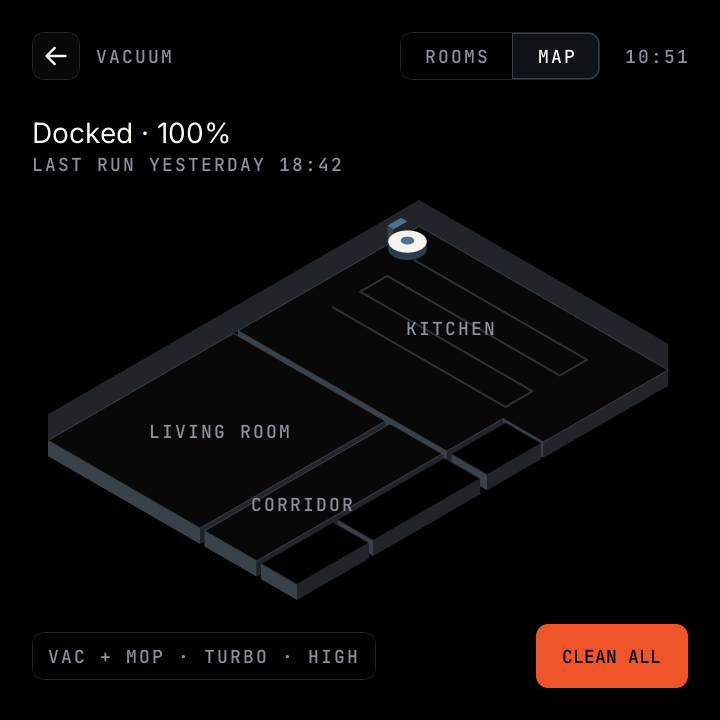
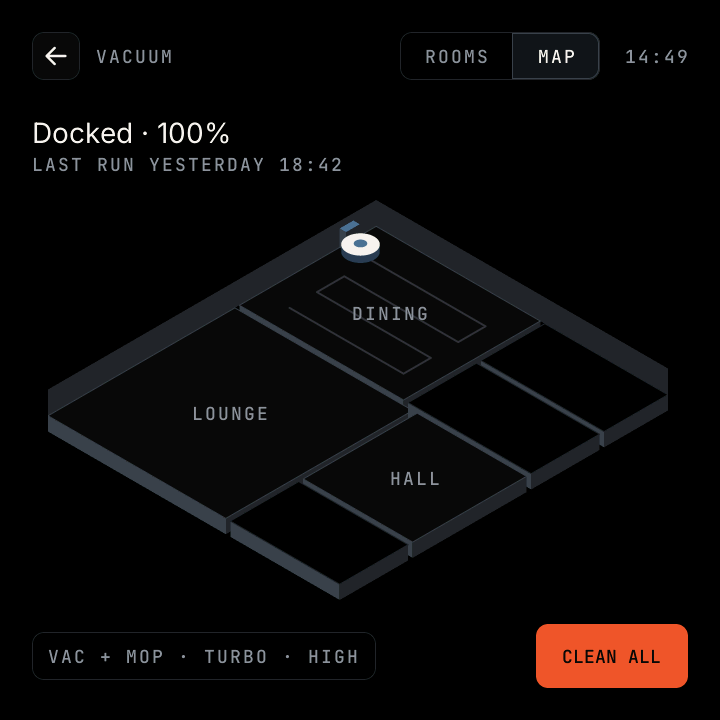
Vacuum: rooms and Clean step aside while it runs (progress bar); made-up sample floor plan (WIP)
Level bar reads bound values as numbers (doubles drew no fill).

diff --git a/renderer/components/iso_floorplan.cpp b/renderer/components/iso_floorplan.cpp
@@ -4,7 +4,7 @@
 //   plan     rooms as DATA (a spec parameter, never code): "Name|segment|x,z x,z ...|lx,lz;..." in metres (plan x
 //            right, z down, origin = the inside rear-left corner, polygons clockwise); segment = the robot's room id
 //            (empty = it can't clean it: canvas top, no label); lx,lz = the label point (empty = no label)
-//   dock     "x0,z0,x1,z1,height" metres: a steel box (house-data.js "robot vacuum dock")
+//   dock     "x0,z0,x1,z1,height" metres: a steel box (the sample: against the back wall)
 //   robot    the robot's position: "x,y[,mode]" in the source's units, through `transform` ("a,b,c,d,e,f": metres
 //            x = a x + b y + c, z = d x + e y + f; empty = metres already). Shown while a run is on (state cleaning,
 //            returning, paused); docked = on the dock whatever it says; otherwise hidden (the lab's rule)
@@ -342,8 +342,8 @@ std::string build_key(fw::Props p) {
   return std::string(p["plan"] | "") + "#" + (p["dock"] | "") + "#" + (p["transform"] | "") + "#" + (p["show"] | "plan");
 }
 
-#define FP_PLAN "Kitchen|3|0,0 5.49,0 5.49,2.75 4.6,2.75 4.6,3.99 0,3.99|2.3,1.6;Pantry||4.7,2.8 5.49,2.8 5.49,3.99 4.7,3.99|;Living room|2|0,4.09 3.35,4.09 3.35,8.18 0,8.18|1.7,6.1;Corridor|1|3.45,4.09 4.6,4.09 4.6,8.18 3.45,8.18|4.02,6.6;Stairs||4.7,4.15 5.49,4.15 5.49,6.5 4.7,6.5|;WC||4.7,6.6 5.49,6.6 5.49,8.18 4.7,8.18|"
-#define FP_TRAIL "0.6,0.7 4.4,0.7 4.4,1.3 0.6,1.3 0.6,1.9 4.4,1.9 4.4,2.5 0.6,2.5"
+#define FP_PLAN "Dining|2|0,0 3.6,0 3.6,3 0,3|1.8,1.5;Utility||3.7,0 6.4,0 6.4,1.4 3.7,1.4|;Study||3.7,1.5 6.4,1.5 6.4,3 3.7,3|;Lounge|1|0,3.1 3.9,3.1 3.9,7.2 0,7.2|1.95,5.15;Hall|3|4,3.1 6.4,3.1 6.4,5.6 4,5.6|5.2,4.35;Cloakroom||4,5.7 6.4,5.7 6.4,7.2 4,7.2|"
+#define FP_TRAIL "0.6,0.7 3.1,0.7 3.1,1.3 0.6,1.3 0.6,1.9 3.1,1.9 3.1,2.5 0.6,2.5"
 
 void rules_page(lv_obj_t *root) {
   const fw::Theme &t = *fw::T;
@@ -362,11 +362,11 @@ FW_COMPONENT(iso_floorplan, "Iso floor plan", "components", R"({
   "frame": [480, 0],
   "audit": {"snaps": {"picked": "one pre-rendered picture (the lab's rule: no live drawing per frame): a pick redraws that room once", "here": "the same picture: the current room's edge is redrawn once", "state": "the LiDAR colour and the trail ink are part of the pictures", "trail": "the path is drawn into the picture when a new point arrives, every few seconds"}},
   "props": [
-    {"name": "plan", "type": "text", "default": "Kitchen|3|0,0 5.49,0 5.49,2.75 4.6,2.75 4.6,3.99 0,3.99|2.3,1.6;Pantry||4.7,2.8 5.49,2.8 5.49,3.99 4.7,3.99|;Living room|2|0,4.09 3.35,4.09 3.35,8.18 0,8.18|1.7,6.1;Corridor|1|3.45,4.09 4.6,4.09 4.6,8.18 3.45,8.18|4.02,6.6;Stairs||4.7,4.15 5.49,4.15 5.49,6.5 4.7,6.5|;WC||4.7,6.6 5.49,6.6 5.49,8.18 4.7,8.18|"},
-    {"name": "dock", "type": "text", "default": "0,0.4,0.14,0.7,0.36"},
-    {"name": "robot", "type": "text", "default": "1.2,5.6"},
+    {"name": "plan", "type": "text", "default": "Dining|2|0,0 3.6,0 3.6,3 0,3|1.8,1.5;Utility||3.7,0 6.4,0 6.4,1.4 3.7,1.4|;Study||3.7,1.5 6.4,1.5 6.4,3 3.7,3|;Lounge|1|0,3.1 3.9,3.1 3.9,7.2 0,7.2|1.95,5.15;Hall|3|4,3.1 6.4,3.1 6.4,5.6 4,5.6|5.2,4.35;Cloakroom||4,5.7 6.4,5.7 6.4,7.2 4,7.2|"},
+    {"name": "dock", "type": "text", "default": "0,0.5,0.14,0.8,0.36"},
+    {"name": "robot", "type": "text", "default": "1.4,4.8"},
     {"name": "transform", "type": "text", "default": ""},
-    {"name": "trail", "type": "text", "default": "0.6,0.7 4.4,0.7 4.4,1.3 0.6,1.3 0.6,1.9 4.4,1.9 4.4,2.5 0.6,2.5"},
+    {"name": "trail", "type": "text", "default": "0.6,0.7 3.1,0.7 3.1,1.3 0.6,1.3 0.6,1.9 3.1,1.9 3.1,2.5 0.6,2.5"},
     {"name": "picked", "type": "text", "default": ""},
     {"name": "here", "type": "text", "default": ""},
     {"name": "state", "type": "select", "options": ["docked", "cleaning", "returning", "paused", "idle", "error", "unavailable"], "default": "docked"},
@@ -374,8 +374,8 @@ FW_COMPONENT(iso_floorplan, "Iso floor plan", "components", R"({
   ],
   "variants": [
     {"label": "docked · last run", "about": "On the dock; the last run's path in text-mute. Rooms it cleans have names; the pantry, stairs and WC stay quiet.", "props": {}},
-    {"label": "two rooms picked", "about": "Picked rooms: accent-dim top and an accent edge; the name in text (tap a room to pick it).", "props": {"picked": "Kitchen:3,Corridor:1"}},
-    {"label": "cleaning", "about": "A run on: the robot on the plan with its LiDAR in the accent, the room it's in edged in the accent, the live path in blue.", "props": {"state": "cleaning", "here": "Living room", "robot": "1.2,5.6", "trail": "0.5,4.5 3.0,4.5 3.0,5.1 0.5,5.1 0.5,5.6 1.2,5.6"}},
+    {"label": "two rooms picked", "about": "Picked rooms: accent-dim top and an accent edge; the name in text (tap a room to pick it).", "props": {"picked": "Dining:2,Hall:3"}},
+    {"label": "cleaning", "about": "A run on: the robot on the plan with its LiDAR in the accent, the room it's in edged in the accent, the live path in blue.", "props": {"state": "cleaning", "here": "Lounge", "robot": "1.4,4.8", "trail": "0.5,3.6 3.4,3.6 3.4,4.2 0.5,4.2 0.5,4.8 1.4,4.8"}},
     {"label": "rules", "about": "The Floor plans rules, from tokens/floorplan.json.", "props": {"show": "rules"}}
   ]
 })") {

diff --git a/renderer/components/level_bar.cpp b/renderer/components/level_bar.cpp
@@ -18,7 +18,7 @@ lv_color_t tone(const char *t) {
 }
 void level_w(void *o, int32_t v) { lv_obj_set_width((lv_obj_t *) o, v); }
 void place(lv_obj_t *root, LB *b, fw::Props p, bool animate) {
-  const int v = p["value"] | -1, m = p["mark"] | -1, H = fw::sp::s2;
+  const int v = (int) lround(p["value"] | -1.0), m = (int) lround(p["mark"] | -1.0), H = fw::sp::s2;  // binds give doubles
   const int to = v < 0 ? 0 : std::max(H, (int) std::lround(b->w * LV_CLAMP(0, v, 100) / 100.0));
   const int from = lv_obj_get_width(b->level);
   if (to != b->to) {  // only a new level moves (the same props redraw nothing)

diff --git a/site/src/content/updates/2026-10-24-new-screen-robot-vacuum.md b/site/src/content/updates/2026-10-24-new-screen-robot-vacuum.md
@@ -4,9 +4,9 @@ date: "2026-10-24"
 time: "01:30"
 kind: "New screen"
 image: "2026-10-24-robot-vacuum.png"
-alt: "The Robot vacuum Map view: the floor plan in isometric with the robot on its dock, the last run's path, a mode button and Clean all"
+alt: "The Robot vacuum Map view: the floor plan in isometric (a sample house) with the robot on its dock, the last run's path, a mode button and Clean all"
 links: [["Robot vacuum", "screens/vacuum/"]]
 ---
 Two views in the header. Rooms shows the state big with the battery and the last run, the rooms as tiles to pick
 (none picked cleans everywhere) and the cleaning mode. Map draws the floor plan as raised tiles with the robot moving
-on it and its path; tap a room on the plan to pick it too. While it cleans, Pause and Dock take over.
+on it and its path; tap a room on the plan to pick it too. While it cleans, the rooms and Clean step aside for its progress, with Pause (or Resume) and Dock.
